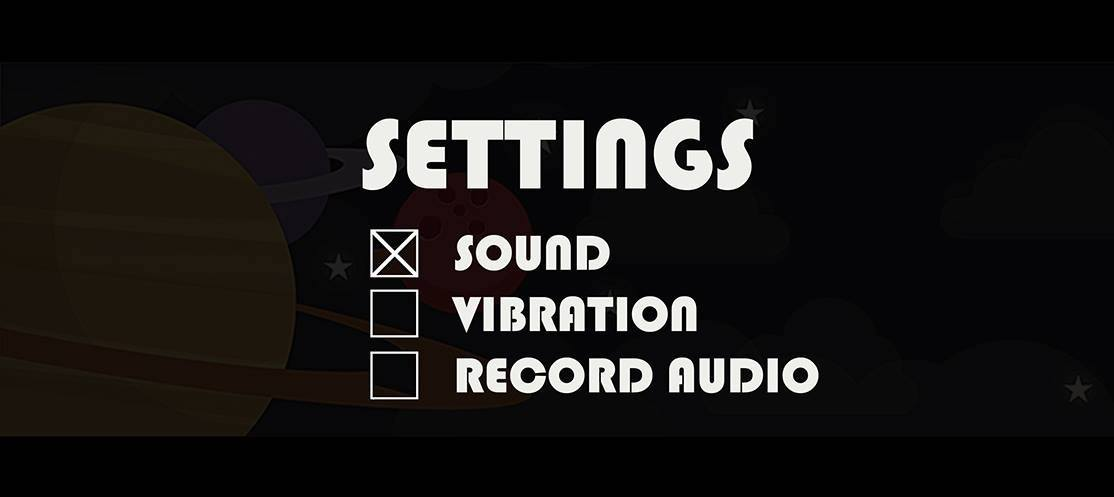
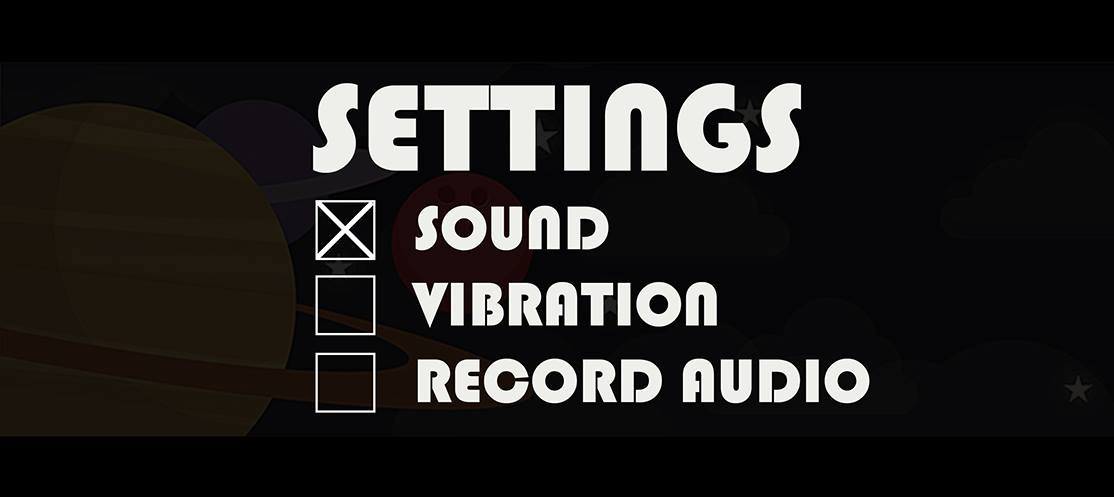
Can toggle audio/vibrate

Changed region(s): [[0.2747, 0.1509, 0.7325, 0.664], [0.2747, 0.6036, 0.7935, 0.8149], [0.2747, 0.8149, 0.3357, 0.8451]]

diff --git a/core/src/com/spacejunk/game/Controller.java b/core/src/com/spacejunk/game/Controller.java
@@ -62,7 +62,6 @@ public class Controller {
 
     // Returns true if none of the settings menu is interacted with
     public boolean settingsMenuBackButtonIsPressed() {
-        Gdx.app.log("settingslog", "(x,y) : " + Gdx.input.getX() + ":" + Gdx.input.getY());
         return !(settingsMenuSoundsSettingIsPressed() || settingsMenuVibrateSettingIsPressed() || settingsMenuRecordAudioSettingIsPressed());
     }
 
@@ -132,25 +131,25 @@ public class Controller {
 
 
     public boolean settingsMenuSoundsSettingIsPressed() {
-        return Gdx.input.getX() >= (currentGame.getxMax() / 2) - 230 &&
-                Gdx.input.getX() <= (currentGame.getxMax() / 2) + 230 &&
-                Gdx.input.getY() >= (currentGame.getyMax() / 2) - 50 &&
+        return Gdx.input.getX() >= (currentGame.getxMax() / 2) - 280 &&
+                Gdx.input.getX() <= (currentGame.getxMax() / 2) + 280 &&
+                Gdx.input.getY() >= (currentGame.getyMax() / 2) - 70 &&
                 Gdx.input.getY() <= (currentGame.getyMax() / 2) + 10;
     }
 
 
     public boolean settingsMenuVibrateSettingIsPressed() {
-        return Gdx.input.getX() >= (currentGame.getxMax() / 2) - 230 &&
-                Gdx.input.getX() <= (currentGame.getxMax() / 2) + 230 &&
+        return Gdx.input.getX() >= (currentGame.getxMax() / 2) - 280 &&
+                Gdx.input.getX() <= (currentGame.getxMax() / 2) + 280 &&
                 Gdx.input.getY() >= (currentGame.getyMax() / 2) + 10 &&
-                Gdx.input.getY() <= (currentGame.getyMax() / 2) + 70;
+                Gdx.input.getY() <= (currentGame.getyMax() / 2) + 90;
     }
 
     public boolean settingsMenuRecordAudioSettingIsPressed() {
-        return Gdx.input.getX() >= (currentGame.getxMax() / 2) - 230 &&
-                Gdx.input.getX() <= (currentGame.getxMax() / 2) + 230 &&
-                Gdx.input.getY() >= (currentGame.getyMax() / 2) + 70 &&
-                Gdx.input.getY() <= (currentGame.getyMax() / 2) + 130;
+        return Gdx.input.getX() >= (currentGame.getxMax() / 2) - 280 &&
+                Gdx.input.getX() <= (currentGame.getxMax() / 2) + 280 &&
+                Gdx.input.getY() >= (currentGame.getyMax() / 2) + 90 &&
+                Gdx.input.getY() <= (currentGame.getyMax() / 2) + 170;
     }
 
 

diff --git a/core/src/com/spacejunk/game/GameScreen.java b/core/src/com/spacejunk/game/GameScreen.java
@@ -523,7 +523,10 @@ public class GameScreen implements Screen {
                         currentObstacle.getCoordinates(),
                         this.spaceJunk.getCharacter().getCoordinates())) {
 
-					currentObstacle.playSound();
+
+					if(soundSetting) {
+						currentObstacle.playSound();
+					}
 
 					boolean passesObstacle = currentObstacle.getBreaksOnConsumable()
 											.equals(this.spaceJunk.getLevel().getEquippedConsumable());
@@ -534,6 +537,11 @@ public class GameScreen implements Screen {
 
 					if (passesObstacle) {
 						return false;
+					}
+					else {
+						if(vibrationSetting) {
+							Gdx.input.vibrate(500);
+						}
 					}
 
                     return spaceJunk.getCharacter().takesHit();
@@ -804,5 +812,17 @@ public class GameScreen implements Screen {
 
 	public Texture getSettingsMenu() {
 		return settingsMenu;
+	}
+
+	public boolean isSoundSetting() {
+		return soundSetting;
+	}
+
+	public boolean isVibrationSetting() {
+		return vibrationSetting;
+	}
+
+	public boolean isRecordAudioSetting() {
+		return recordAudioSetting;
 	}
 }
